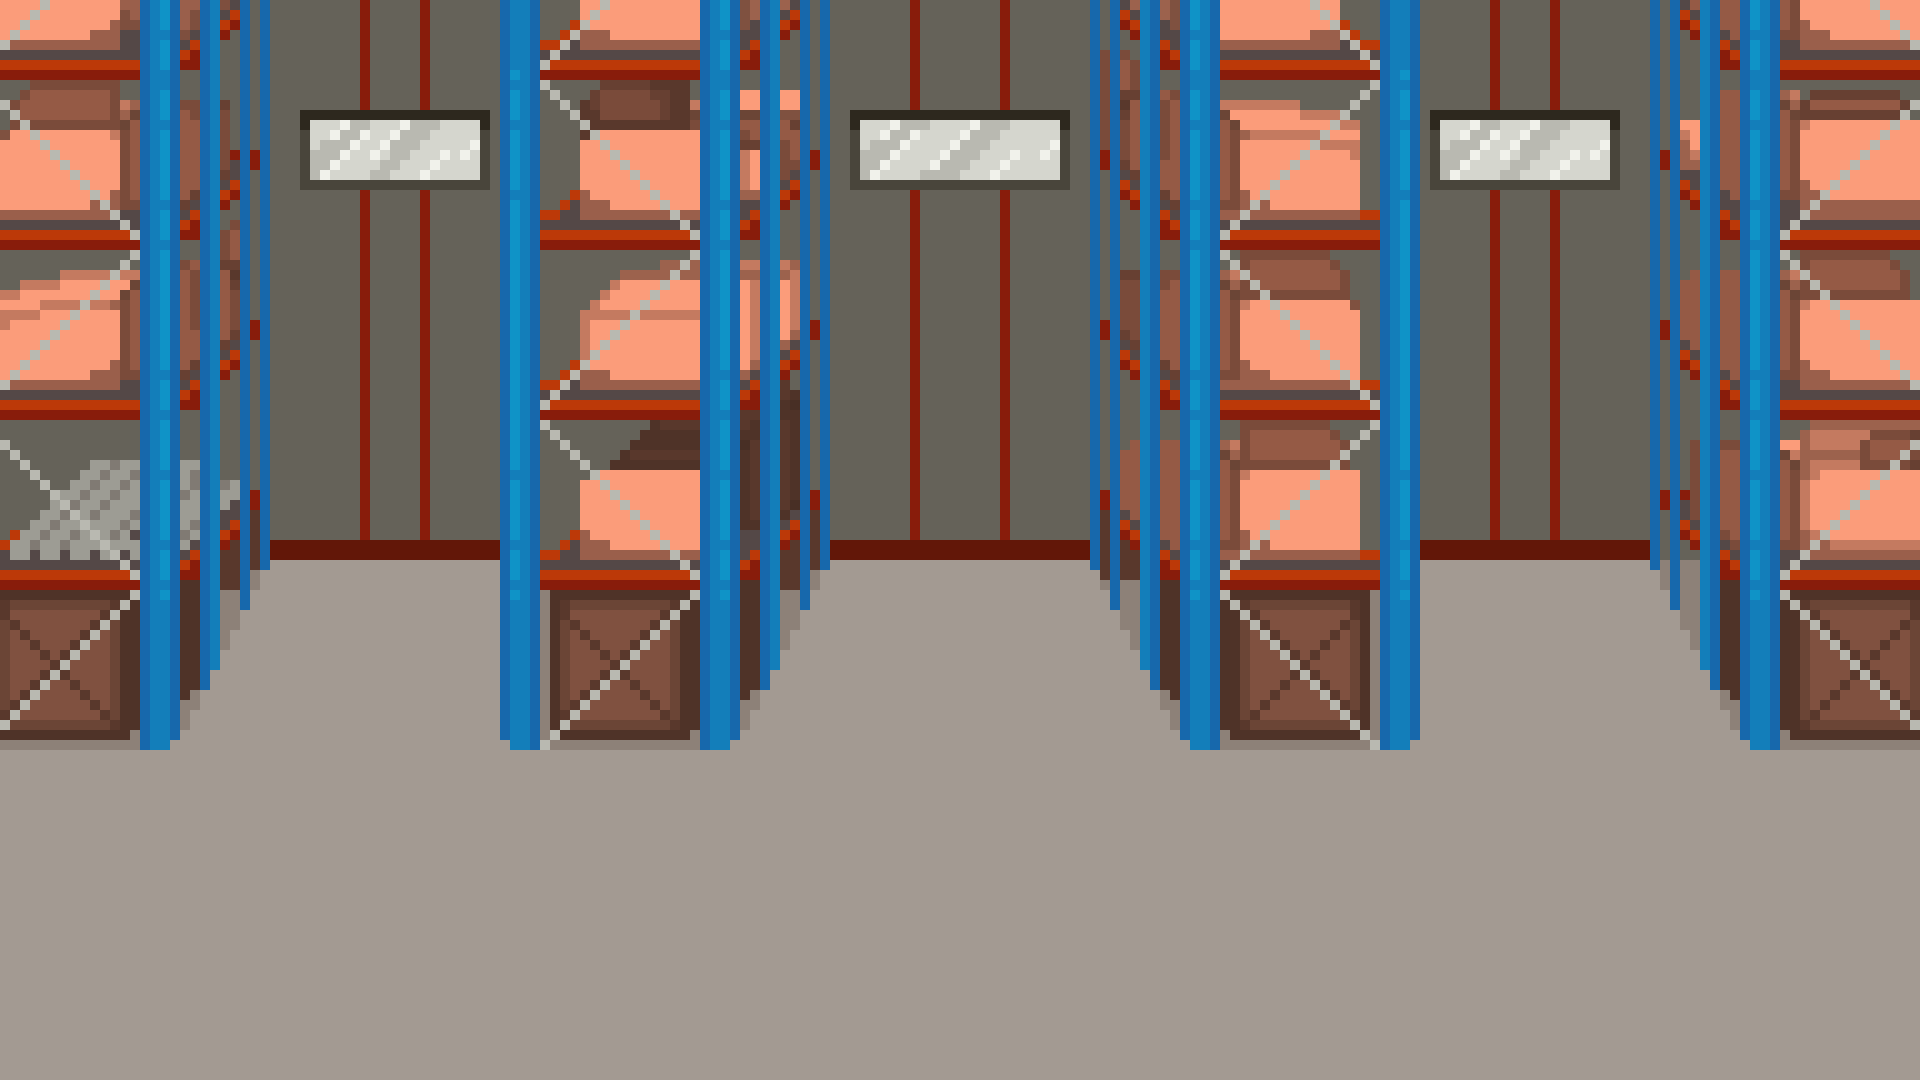
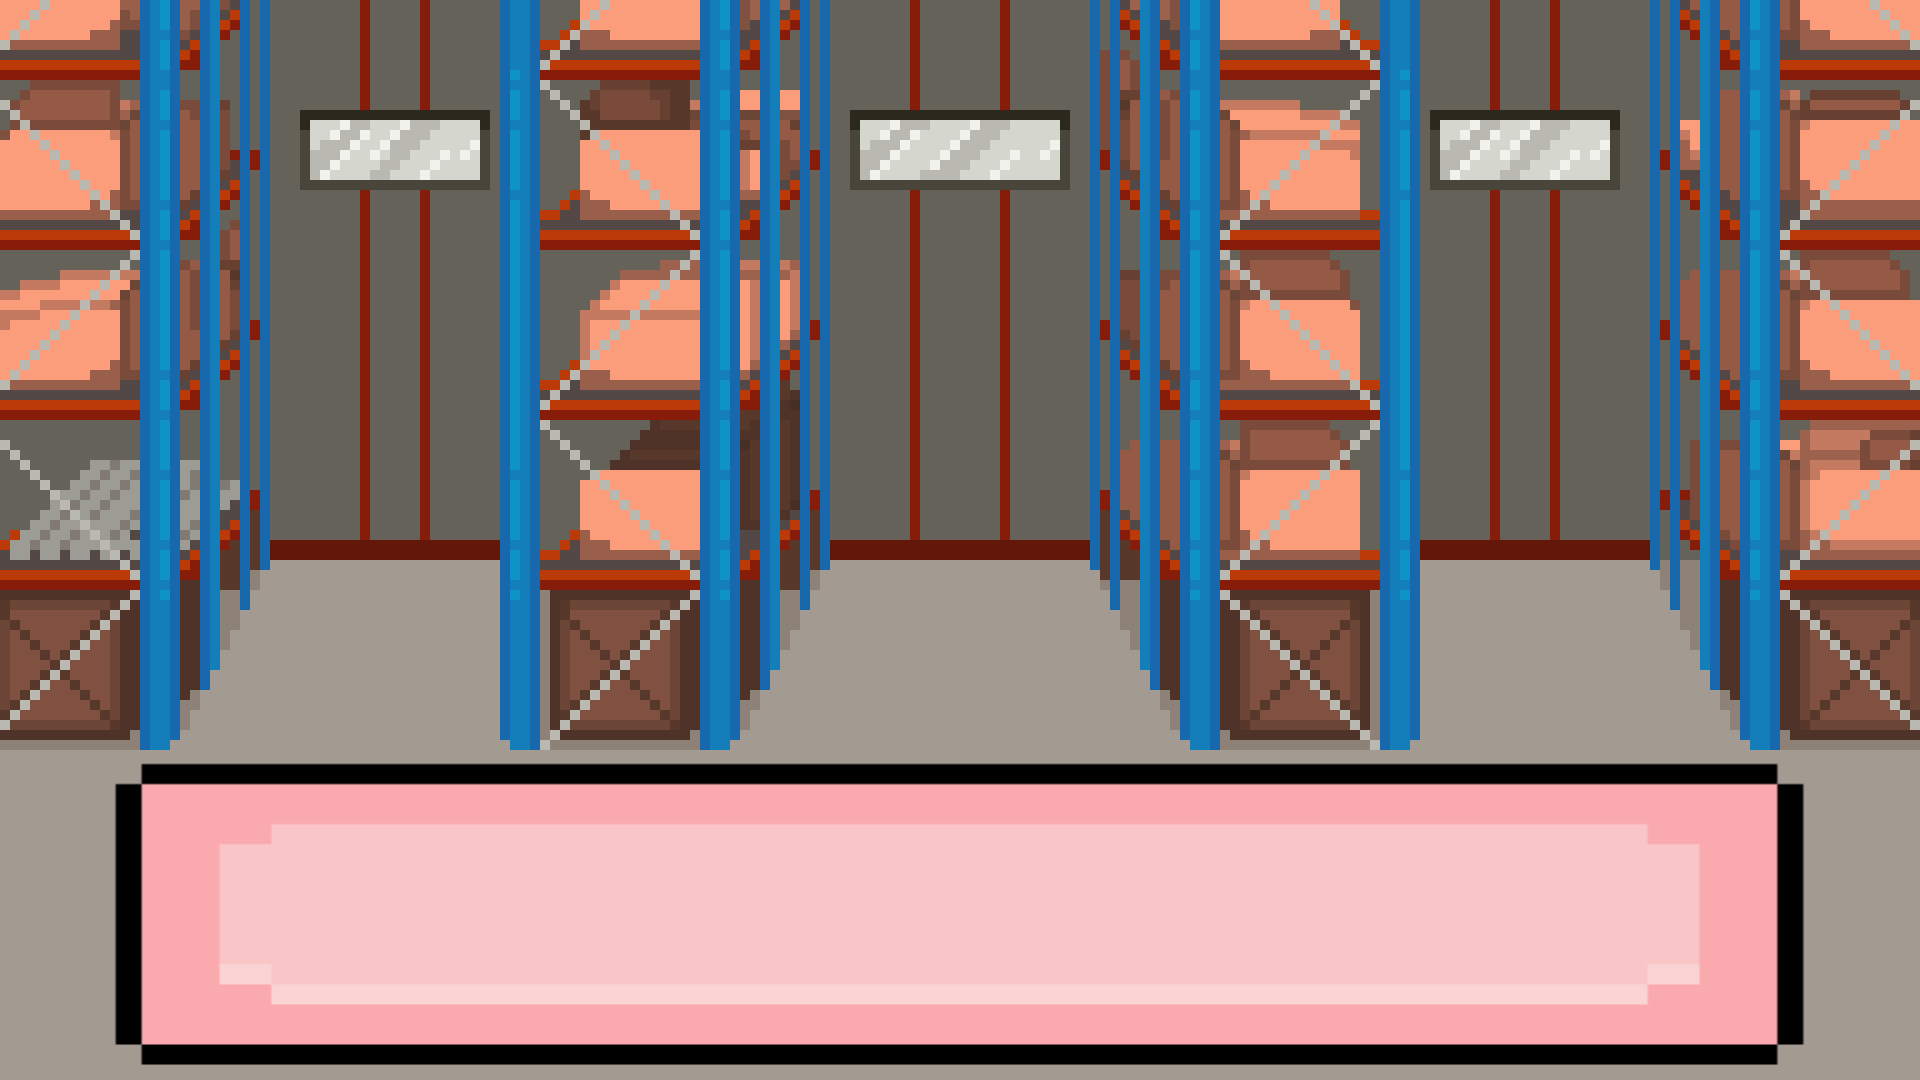
Rätsel Ikea

Changed region(s): [[0.0625, 0.7028, 0.9375, 1.0]]

diff --git a/game.js b/game.js
@@ -43,12 +43,14 @@ var Raetsel1Geloest = false; // TRESOR
 var parkplatzGeloest = true; // Skip den Parkplatz weil doch kein Rätsel???
 var Raetsel2Geloest = false; // GYM PC
 var Raetsel3Geloest = false; // POSTREGAL
+var Raetsel4Geloest = false; // LAGERHAUS
 
 // Speaker-Audio
 var speakerAudioPlayed = []; // Wurde das Audio vom Sprecher bereits abgespielt
 
 // Level Variablen
 var pressedcount = 0; // Anzahl der Knöpfe, die gedrückt wurden für Level Regal
+var fragencount = 0; // Anzahl der Fragen, die gestellt wurden für Level Lagerhaus
 
 function playaudio(audiofilename, volume, looped) {
 
@@ -176,6 +178,34 @@ function levelAction(levelID, LevelAction) {
                 gameAction(3);
             } else {
                 alert("falsch!");
+            }
+
+            break;
+
+        case 4: // Lagerhaus
+
+            if (fragencount == 0) { // Frage 1
+
+                if (LevelAction == 1) {
+                    fragencount++;
+                    document.getElementById("levelbuttonTextfeld").innerHTML = "Warum sollte die Arraygröße in einer HashMap immer ein Primzahl sein?";
+                    document.getElementById("levelbutton0").innerHTML = "A) Um einen schnelleren Zugriff zu garantieren";
+                    document.getElementById("levelbutton1").innerHTML = "B) Um Kollisionen zu vermeiden";
+                    document.getElementById("levelbutton2").innerHTML = "C) Weil es bei der Überprüfung der Datenintegrität hilft";
+                } else {
+                    alert("Falsch!");
+                }
+            } else if (fragencount == 1) { // Frage 2
+               
+                if (LevelAction == 2) {
+                    fragencount++;
+                    removeButtons();
+                    Raetsel4Geloest = true;
+                    gameAction(11);
+                } else {
+                    alert("Falsch!");
+                }
+
             }
 
             break;
@@ -371,6 +401,56 @@ function makeButtons(raetselID) {
 
                 document.getElementById("game").appendChild(newButton);
             }
+
+            break;
+
+        case 4: // Lagerhaus
+
+            var buttonDetailsArray = [];
+
+            var newTextField = document.createElement("div");
+            newTextField.id = "levelbuttonTextfeld";
+            newTextField.setAttribute('class', 'invisible-button');
+            newTextField.innerHTML = "Wann sollte dieser Umbau am besten stattfinden?";
+            newTextField.style.top = "490px";
+            newTextField.style.left = "150px";
+            newTextField.style.width = "500px";
+            newTextField.style.height = "50px";
+            newTextField.style.fontSize = "16px";
+            newTextField.style.letterSpacing = "3px";
+            newTextField.style.textAlign = "left";
+            newTextField.style.fontFamily = "Pixelify Sans";
+            newTextField.style.overflow = "hidden";
+            newTextField.style.borderRadius = "0px";
+            newTextField.style.color = "black";
+            newTextField.style.cursor = "default";
+            document.getElementById("game").appendChild(newTextField);
+
+            buttonDetailsArray.push([550, 150, 200, 40, 4, 1]);
+            buttonDetailsArray.push([550, 380, 170, 40, 4, 2]);
+            buttonDetailsArray.push([550, 560, 220, 40, 4, 3]);
+
+
+            for (let index = 0; index < buttonDetailsArray.length; index++) {
+                const newButton = document.createElement("div");
+                newButton.id = "levelbutton" + index;
+                newButton.setAttribute('class', 'invisible-button');
+                newButton.style.textAlign = "left";
+                newButton.style.fontSize = "14px";
+                newButton.style.color = "black";
+                newButton.style.fontFamily = "Pixelify Sans";
+                newButton.style.top = buttonDetailsArray[index][0] + "px";
+                newButton.style.left = buttonDetailsArray[index][1] + "px";
+                newButton.style.width = buttonDetailsArray[index][2] + "px";
+                newButton.style.height = buttonDetailsArray[index][3] + "px";
+                newButton.setAttribute('onclick', 'levelAction(' + buttonDetailsArray[index][4] + ', ' +  buttonDetailsArray[index][5] + ')');
+
+                document.getElementById("game").appendChild(newButton);
+            }
+
+            document.getElementById("levelbutton0").innerHTML = "A) Übers Wochenende";
+            document.getElementById("levelbutton1").innerHTML = "B) In der Woche";
+            document.getElementById("levelbutton2").innerHTML = "C) vor einem Feiertag";
 
             break;
         
@@ -735,7 +815,7 @@ function gameAction(viewID) {
 
             removeButtons();
 
-            document.getElementById("gamebutton1").style.display = "block";
+            (!Raetsel4Geloest) ? document.getElementById("gamebutton1").style.display = "block" : document.getElementById("gamebutton1").style.display = "none";
 
             // Inseln freischalten
             document.getElementById("insel2").style.display = "none";
@@ -784,6 +864,8 @@ function gameAction(viewID) {
             document.getElementById("gamebutton1").style.width = "18px";
             document.getElementById("gamebutton1").style.height = "55px";
             document.getElementById("gamebutton1").setAttribute('onclick', 'gameAction(14)'); // ToDo: für Case 13
+
+            (Raetsel4Geloest) ? "" : makeButtons(4);
 
             if (historyArray[historyArray.length - 1] != 13) {
                 historyArray.push(12);
